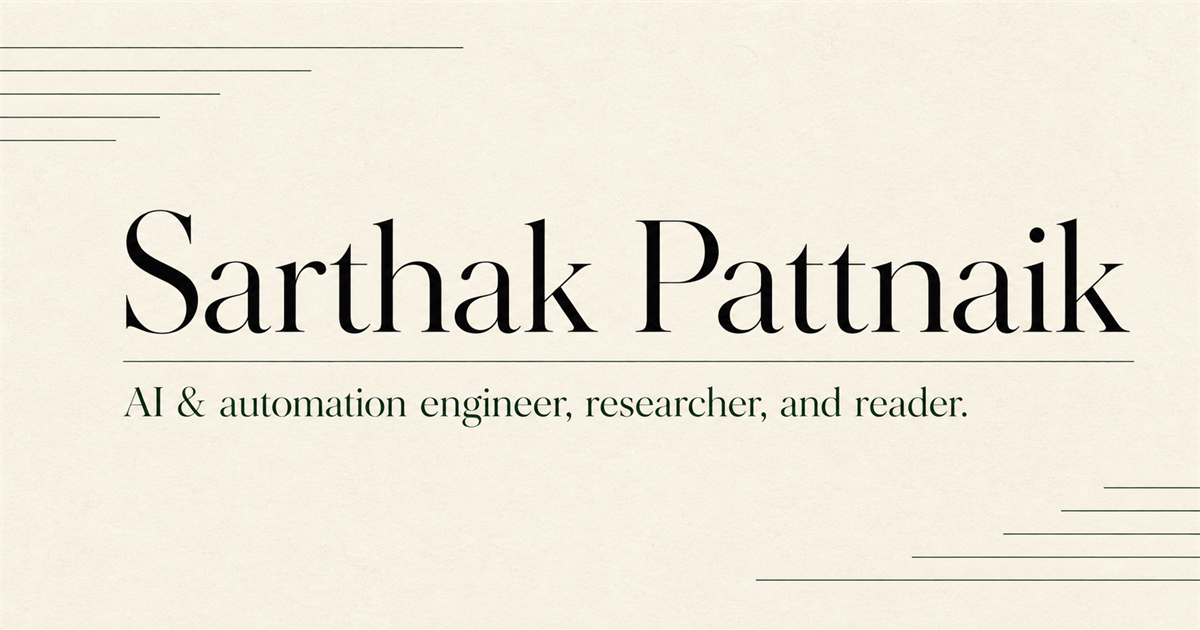
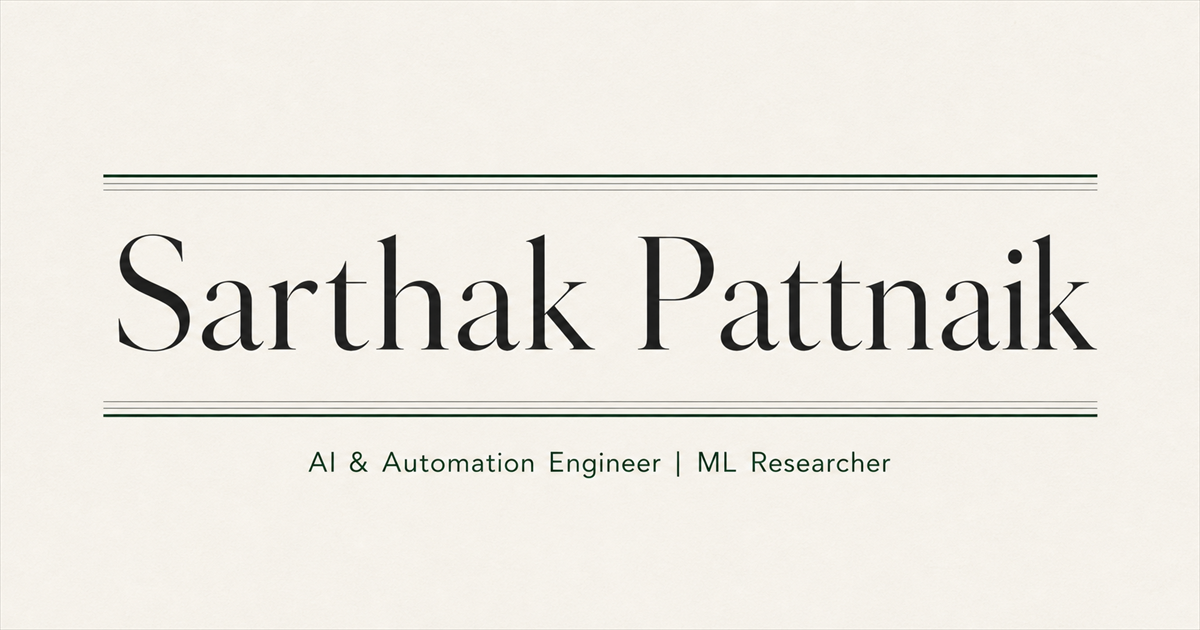
Refine portfolio layout and profile description

diff --git a/index.html b/index.html
@@ -3,16 +3,16 @@
   <head>
     <meta charset="UTF-8" />
     <meta name="viewport" content="width=device-width, initial-scale=1" />
-    <meta name="description" content="Sarthak Pattnaik — AI and automation engineer, researcher, and reader." />
+    <meta name="description" content="Sarthak Pattnaik — AI &amp; Automation Engineer | ML Researcher" />
     <meta name="theme-color" content="#f2f0ea" />
     <meta property="og:title" content="Sarthak Pattnaik" />
-    <meta property="og:description" content="AI and automation engineer, researcher, and reader." />
+    <meta property="og:description" content="AI &amp; Automation Engineer | ML Researcher" />
     <meta property="og:type" content="website" />
     <meta property="og:image" content="/og.png" />
-    <meta property="og:image:alt" content="Sarthak Pattnaik — AI and automation engineer, researcher, and reader." />
+    <meta property="og:image:alt" content="Sarthak Pattnaik — AI &amp; Automation Engineer | ML Researcher" />
     <meta name="twitter:card" content="summary" />
     <meta name="twitter:title" content="Sarthak Pattnaik" />
-    <meta name="twitter:description" content="AI and automation engineer, researcher, and reader." />
+    <meta name="twitter:description" content="AI &amp; Automation Engineer | ML Researcher" />
     <meta name="twitter:image" content="/og.png" />
     <title>Sarthak Pattnaik</title>
     <style>
@@ -23,21 +23,22 @@
       a { color: inherit; }
       .page { width: min(100% - 40px, 980px); margin: 0 auto; }
       .masthead { padding: 44px 0 34px; border-bottom: 1px solid var(--ink); }
-      .identity { display: flex; align-items: baseline; justify-content: space-between; gap: 24px; margin-bottom: 52px; }
+      .identity { margin-bottom: 34px; text-align: center; }
       .name { margin: 0; font-family: Iowan Old Style, Baskerville, "Times New Roman", serif; font-size: clamp(2.15rem, 6vw, 4.8rem); font-weight: 400; line-height: 0.95; letter-spacing: -0.055em; }
-      .descriptor { max-width: 310px; margin: 0; color: var(--muted); font-size: 0.88rem; line-height: 1.55; text-align: right; }
-      .socials { display: flex; flex-wrap: wrap; gap: 8px 20px; }
-      .socials a { display: inline-flex; align-items: center; gap: 6px; padding: 5px 0; color: var(--ink); font-size: 0.75rem; font-weight: 650; letter-spacing: 0.075em; text-decoration: none; text-transform: uppercase; }
-      .socials a::after { content: "↗"; color: var(--muted); font-size: 0.78rem; transition: transform 160ms ease; }
-      .socials a[href^="mailto"]::after { content: "→"; }
-      .socials a:hover, .socials a:focus-visible { color: var(--accent); }
-      .socials a:hover::after, .socials a:focus-visible::after { transform: translate(2px, -2px); }
-      .socials a[href^="mailto"]:hover::after, .socials a[href^="mailto"]:focus-visible::after { transform: translateX(2px); }
+      .descriptor { max-width: 520px; margin: 18px auto 0; color: var(--muted); font-size: 0.88rem; line-height: 1.55; }
+      .socials { display: flex; flex-wrap: wrap; justify-content: center; gap: 10px; }
+      .socials a { display: inline-flex; width: 42px; height: 42px; align-items: center; justify-content: center; border: 1px solid var(--line); border-radius: 50%; color: var(--ink); text-decoration: none; transition: color 160ms ease, border-color 160ms ease, background 160ms ease, transform 160ms ease; }
+      .socials a:hover, .socials a:focus-visible { border-color: var(--accent); background: var(--accent); color: var(--paper); transform: translateY(-2px); }
+      .socials svg { width: 18px; height: 18px; fill: currentColor; }
+      .social-mark { font-family: Arial, Helvetica, sans-serif; font-size: 0.86rem; font-weight: 800; letter-spacing: -0.06em; line-height: 1; }
+      .social-mark.medium { font-family: Georgia, serif; font-size: 1.25rem; font-weight: 700; }
+      .social-mark.x { font-family: Georgia, serif; font-size: 1.15rem; font-weight: 400; }
+      .social-mark.email { font-size: 1.05rem; letter-spacing: 0; }
       a:focus-visible { outline: 2px solid var(--accent); outline-offset: 4px; }
       main { padding: 72px 0 96px; }
-      .section-heading { display: grid; grid-template-columns: 150px 1fr; gap: 28px; align-items: end; margin-bottom: 24px; }
+      .section-heading { display: flex; justify-content: space-between; gap: 28px; align-items: end; margin-bottom: 24px; }
       .eyebrow { margin: 0 0 8px; color: var(--accent); font-size: 0.7rem; font-weight: 750; letter-spacing: 0.13em; text-transform: uppercase; }
-      h2 { margin: 0; font-family: Iowan Old Style, Baskerville, "Times New Roman", serif; font-size: clamp(2rem, 5vw, 3.75rem); font-weight: 400; line-height: 1; letter-spacing: -0.045em; }
+      h2 { margin: 0; font-family: Iowan Old Style, Baskerville, "Times New Roman", serif; font-size: clamp(2rem, 5vw, 3.75rem); font-weight: 400; line-height: 1; letter-spacing: -0.045em; white-space: nowrap; }
       .count { justify-self: end; margin: 0 0 7px; color: var(--muted); font-size: 0.78rem; }
       .book-list { margin: 0; padding: 0; border-top: 1px solid var(--line); list-style: none; counter-reset: books; }
       .book { counter-increment: books; display: grid; grid-template-columns: 150px minmax(0, 1fr) minmax(190px, 0.62fr); gap: 28px; align-items: baseline; padding: 20px 0 21px; border-bottom: 1px solid var(--line); transition: color 160ms ease, padding 160ms ease; }
@@ -51,11 +52,11 @@
       @media (max-width: 680px) {
         .page { width: min(100% - 32px, 980px); }
         .masthead { padding-top: 28px; }
-        .identity { display: block; margin-bottom: 32px; }
-        .descriptor { margin-top: 18px; text-align: left; }
-        .socials { gap: 4px 16px; }
+        .identity { margin-bottom: 28px; }
+        .socials { gap: 8px; }
         main { padding: 54px 0 72px; }
-        .section-heading { display: flex; align-items: end; justify-content: space-between; gap: 16px; }
+        .section-heading { gap: 16px; }
+        .count { display: none; }
         .book { grid-template-columns: 34px minmax(0, 1fr); gap: 12px; padding: 17px 0 18px; }
         .book-author { grid-column: 2; margin-top: -4px; }
         .book:hover { padding-left: 0; }
@@ -70,17 +71,17 @@
       <header class="masthead">
         <div class="identity">
           <h1 class="name">Sarthak Pattnaik</h1>
-          <p class="descriptor">AI &amp; automation engineer, data scientist, published researcher — and an avid reader.</p>
+          <p class="descriptor">AI &amp; Automation Engineer | ML Researcher</p>
         </div>
         <nav class="socials" aria-label="Social links">
-          <a href="https://www.linkedin.com/in/sarthakpattnaik/" target="_blank" rel="noopener noreferrer">LinkedIn</a>
-          <a href="https://github.com/spattnaik1998" target="_blank" rel="noopener noreferrer">GitHub</a>
-          <a href="https://scholar.google.com/citations?user=zHT6Ok0AAAAJ&amp;hl=en" target="_blank" rel="noopener noreferrer">Google Scholar</a>
-          <a href="https://www.researchgate.net/profile/Sarthak-Pattnaik-3?ev=hdr_xprf" target="_blank" rel="noopener noreferrer">ResearchGate</a>
-          <a href="https://medium.com/@sarthakpattanaik_4094" target="_blank" rel="noopener noreferrer">Medium</a>
-          <a href="https://substack.com/@sarthakpattnaik1998" target="_blank" rel="noopener noreferrer">Substack</a>
-          <a href="https://x.com/Sarthakpattna1" target="_blank" rel="noopener noreferrer">X / Twitter</a>
-          <a href="mailto:dps.sarthak@gmail.com">Email</a>
+          <a href="https://www.linkedin.com/in/sarthakpattnaik/" target="_blank" rel="noopener noreferrer" aria-label="LinkedIn" title="LinkedIn"><span class="social-mark" aria-hidden="true">in</span></a>
+          <a href="https://github.com/spattnaik1998" target="_blank" rel="noopener noreferrer" aria-label="GitHub" title="GitHub"><svg viewBox="0 0 24 24" aria-hidden="true"><path d="M12 .7a11.5 11.5 0 0 0-3.64 22.4c.58.1.79-.25.79-.56v-2.23c-3.23.7-3.91-1.37-3.91-1.37-.53-1.34-1.29-1.7-1.29-1.7-1.05-.72.08-.71.08-.71 1.17.08 1.78 1.2 1.78 1.2 1.04 1.78 2.72 1.27 3.38.97.1-.75.4-1.27.74-1.56-2.58-.29-5.29-1.29-5.29-5.69 0-1.26.45-2.29 1.19-3.1-.12-.29-.52-1.47.11-3.06 0 0 .97-.31 3.16 1.18A11 11 0 0 1 12 6.08c.98 0 1.95.13 2.87.39 2.2-1.49 3.16-1.18 3.16-1.18.63 1.59.23 2.77.11 3.06.74.81 1.19 1.84 1.19 3.1 0 4.41-2.72 5.39-5.3 5.68.42.36.79 1.06.79 2.14v3.27c0 .31.21.67.8.56A11.5 11.5 0 0 0 12 .7Z"/></svg></a>
+          <a href="https://scholar.google.com/citations?user=zHT6Ok0AAAAJ&amp;hl=en" target="_blank" rel="noopener noreferrer" aria-label="Google Scholar" title="Google Scholar"><svg viewBox="0 0 24 24" aria-hidden="true"><path d="M12 3 1.5 8.8 12 14.5l8-4.36V16h2V9.05l.5-.27L12 3Zm-6.5 9.1v4.35C5.5 18.4 8.4 20 12 20s6.5-1.6 6.5-3.55V12.1L12 15.65 5.5 12.1Z"/></svg></a>
+          <a href="https://www.researchgate.net/profile/Sarthak-Pattnaik-3?ev=hdr_xprf" target="_blank" rel="noopener noreferrer" aria-label="ResearchGate" title="ResearchGate"><span class="social-mark" aria-hidden="true">Rᵍ</span></a>
+          <a href="https://medium.com/@sarthakpattanaik_4094" target="_blank" rel="noopener noreferrer" aria-label="Medium" title="Medium"><span class="social-mark medium" aria-hidden="true">M</span></a>
+          <a href="https://substack.com/@sarthakpattnaik1998" target="_blank" rel="noopener noreferrer" aria-label="Substack" title="Substack"><svg viewBox="0 0 24 24" aria-hidden="true"><path d="M3 4h18v2.5H3V4Zm0 4h18v2.5H3V8Zm0 4h18v8l-9-5-9 5v-8Z"/></svg></a>
+          <a href="https://x.com/Sarthakpattna1" target="_blank" rel="noopener noreferrer" aria-label="X / Twitter" title="X / Twitter"><span class="social-mark x" aria-hidden="true">𝕏</span></a>
+          <a href="mailto:dps.sarthak@gmail.com" aria-label="Email" title="Email"><span class="social-mark email" aria-hidden="true">@</span></a>
         </nav>
       </header>
       <main>
@@ -99,7 +100,7 @@
             <li class="book"><span class="book-title">Rebooting AI</span><span class="book-author">Gary Marcus</span></li>
             <li class="book"><span class="book-title">The Coming Wave</span><span class="book-author">Mustafa Suleyman</span></li>
             <li class="book"><span class="book-title">Genesis: Artificial Intelligence, Hope, and the Human Spirit</span><span class="book-author">Henry Kissinger, Eric Schmidt &amp; Craig Mundie</span></li>
-            <li class="book"><span class="book-title">The Infinity Machine</span><span class="book-author">Camila Russo</span></li>
+            <li class="book"><span class="book-title">The Infinity Machine</span><span class="book-author">Sebastian Mallaby</span></li>
             <li class="book"><span class="book-title">The Scaling Era</span><span class="book-author">Dwarkesh Patel</span></li>
             <li class="book"><span class="book-title">The Age of Extraction</span><span class="book-author">Tim Wu</span></li>
             <li class="book"><span class="book-title">Sapiens</span><span class="book-author">Yuval Noah Harari</span></li>
